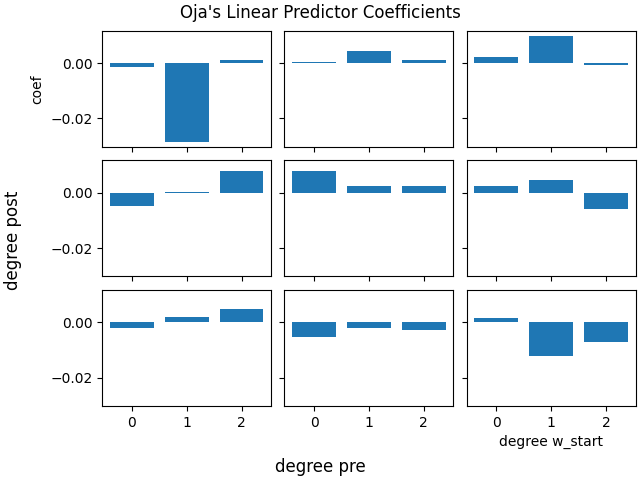
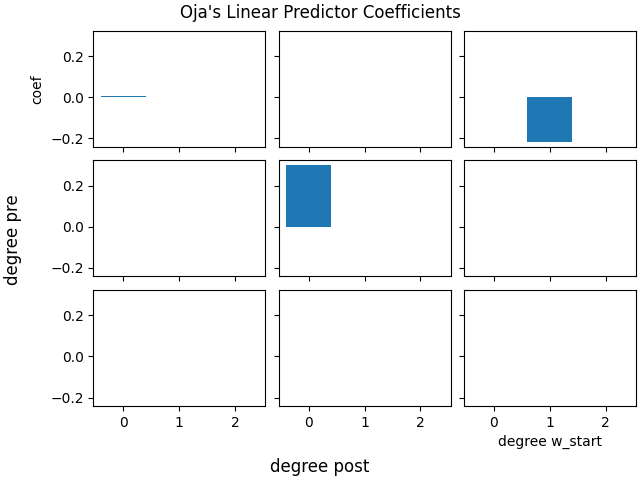
results for 3/11 meeting

diff --git a/oja/oja_manualfeatures.py b/oja/oja_manualfeatures.py
@@ -14,11 +14,14 @@ eps = 1e-7
 
 M = torch.normal(torch.zeros((N, N)), torch.ones((N, N)))
 Q, _ = torch.linalg.qr(M)
-D = torch.diag(torch.exp(-torch.arange(N)))
+Q = Q.to(gpu)
+D = torch.diag(torch.exp(-torch.arange(N))).to(gpu)
 Sigma = Q @ D @ Q.t()
-r_dist = torch.distributions.multivariate_normal.MultivariateNormal(torch.zeros(N), Sigma)
+r_dist = torch.distributions.multivariate_normal.MultivariateNormal(torch.zeros(N, device=gpu), Sigma)
 
 W = torch.normal(torch.zeros(N), torch.ones(N))
+W = W.to(gpu)
+#W.requires_grad_(True)
 
 lr = 1e-3
 n_train = 2000
@@ -31,11 +34,11 @@ alphas = alpha_start*torch.exp(torch.arange(n_train) * (np.log(alpha_end / alpha
 degree = 2
 
 def load_features(start, end):
-    pre = torch.load("r_pre_gd.pt").detach().cpu()
-    pre_start = pre[start, :]
-    post = torch.load("r_post_gd.pt").detach().cpu()
+    post = torch.load("r_post.pt").detach().cpu()
     post_start = post[start, :]
-    W = torch.load("weights_gd.pt").detach().cpu()
+    pre = torch.load("r_pre.pt").detach().cpu()
+    pre_start = pre[start, :]
+    W = torch.load("weights.pt").detach().cpu()
     W0, Wf = W[start, :], W[end, :]
     return pre_start, post_start, W0, Wf
 
@@ -60,6 +63,10 @@ def prepare_features(r_pre, rpost, W):
 
     return transformed_features
 
+def manual_features(r_pre, rpost, W):
+    features = torch.stack((rpost*r_pre, (rpost ** 2) * W), dim=1)
+    return features
+
 def prepare_labels(W0, Wf):
     # # Last diff should be 0
     # delta_W = torch.empty_like(W)
@@ -72,7 +79,7 @@ def prepare_labels(W0, Wf):
 def load_loss(num_intervals, epoch_bound):
     if epoch_bound == None:
         epoch_bound = (0, n_train)
-    losses = torch.load(f"losses_gd.pt").detach().cpu()
+    losses = torch.load(f"losses.pt").detach().cpu()
     losses_region = losses[epoch_bound[0]: epoch_bound[1]]
     total_reduction = losses_region[-1] - losses_region[0]
     interval = total_reduction / (num_intervals)
@@ -99,9 +106,9 @@ def fit_weights(X, Y):
     #reg = ElasticNet(alpha=alpha, l1_ratio=1.0)
     
     # Already have intercept from power series transform
-    #reg = LinearRegression(fit_intercept=False)
+    reg = LinearRegression(fit_intercept=False)
     #reg = LinearRegression(fit_intercept=True) # now we have intercept
-    reg = Lasso(alpha=5e-2, fit_intercept=False)
+    #reg = Lasso(alpha=5e-2, fit_intercept=False)
     reg.fit(X, Y)
 
     return reg
@@ -112,13 +119,14 @@ def prepare_train_data(alphas, num_intervals=5, epoch_subset=None):
     train_samples = []
     train_labels = []
     manual_int = n_train
-    #b = torch.arange(manual_int)
-    #num_intervals = manual_int-1
+    b = torch.arange(manual_int)
+    num_intervals = manual_int-1
     for i in range(num_intervals):
-        #start, end = b[i], b[i+1]
-        start, end = loss_intervals[i]
+        start, end = b[i], b[i+1]
+        #start, end = loss_intervals[i]
         pre, post, W0, Wf = load_features(start, end)
-        features = prepare_features(pre, post, W0)
+        #features = prepare_features(pre, post, W0)
+        features = manual_features(pre, post, W0)
         features = alphas[start] * features
         labels = prepare_labels(W0, Wf)
         train_samples.append(features)
@@ -132,8 +140,8 @@ def prepare_train_data(alphas, num_intervals=5, epoch_subset=None):
     samples_mu = torch.mean(all_samples, dim=0, keepdim=True)
     samples_std = torch.std(all_samples, dim=0, keepdim=True)
     #print(samples_std.shape)
-    # print(samples_mu)
-    # print(samples_std)
+    #print(samples_mu)
+    #print(samples_std)
     #print(torch.min(samples_mu), torch.max(samples_mu))
     normed_samples = (all_samples - samples_mu) / (samples_std + eps)
 
@@ -145,32 +153,7 @@ def prepare_train_data(alphas, num_intervals=5, epoch_subset=None):
     normed_Y = (all_labels - Y_mu) / (Y_std + eps)
     #normed_Y = all_labels
 
-    return loss_intervals, normed_samples.detach().cpu().numpy(), (normed_Y.detach().cpu().numpy(), Y_mu, Y_std)
-
-
-def accum_rule(Y_mu, Y_std, num_steps=100):
-    # Batches to draw from normal dist to (noisily) estimate PC1
-    B = 128
-    c = torch.cov(r_dist.sample((B,)).t())
-    _, eigvecs = torch.linalg.eigh(c)
-    # eigvals sorted in ascending order so take last one
-    pc1 = eigvecs[:, -1]
-    norm_pc1 = pc1 / torch.linalg.vector_norm(pc1)
-    W = torch.normal(torch.zeros(N), torch.ones(N))
-
-    losses = torch.empty((num_steps,))
-    for i in range(num_steps):
-        r_pre = r_dist.sample()
-        r_post = W.t() @ r_pre
-        X = prepare_features(r_pre, r_post, W)
-        delta_W = torch.from_numpy(reg.predict(X.detach().cpu().numpy())) * Y_std + Y_mu
-        W += delta_W
-        loss = 1-torch.abs(W.t() @ norm_pc1 / torch.linalg.vector_norm(W))
-        print(f"Iter {i}: {loss.item()}")
-        losses[i] = loss
-
-    return losses
-
+    return loss_intervals, normed_samples.detach().cpu().numpy(), normed_Y.detach().cpu().numpy()
 
 def compare_coefs(degree, numvars, coef):
     n = degree + 1
@@ -185,24 +168,18 @@ def compare_coefs(degree, numvars, coef):
             if (i, j) == (n-1, n-1):
                 ax[i, j].set_xlabel("degree w_start")
 
-    fig.supxlabel("degree post")
-    fig.supylabel("degree pre")
+    fig.supxlabel("degree pre")
+    fig.supylabel("degree post")
 
     fig.suptitle("Oja's Linear Predictor Coefficients")    
     plt.show()
 
 
-loss_intervals, features, label_data = prepare_train_data(alphas, num_intervals=50, epoch_subset=None)
-labels, mu, std = label_data
+loss_intervals, features, labels = prepare_train_data(alphas, num_intervals=50, epoch_subset=None)
 #print(f"Loss intervals: {loss_intervals}")
 reg = fit_weights(features, labels)
-print(f"Coefs: {reg.coef_}")
+coef0, coef1 = reg.coef_[0], reg.coef_[1]
+print(f"Coefs: \tpost*pre: {coef0:.2f}, post^2*W: {coef1:.2f}")
 print(f"R^2: {reg.score(features, labels)}")
-compare_coefs(degree=degree, numvars=3, coef=reg.coef_)
+#compare_coefs(degree=degree, numvars=3, coef=reg.coef_)
 plt.savefig("coefs.png")
-plt.close()
-
-losses = accum_rule(mu, std, num_steps=n_train)
-plt.plot(losses)
-plt.title("Loss: Learning Rule Accumulation")
-plt.savefig("accum_rule.png")

diff --git a/oja/oja_groundtruth.py b/oja/oja_groundtruth.py
@@ -14,16 +14,15 @@ r_dist = torch.distributions.multivariate_normal.MultivariateNormal(torch.zeros(
 
 W = torch.normal(torch.zeros(N), torch.ones(N))
 W = W.to(gpu)
-#W.requires_grad_(True)
+W.requires_grad_(True)
 
 lr = 1e-3
-n_train = 1000
-alpha_start = 1e-1
+n_train = 2000
+alpha_start = 1e-2
 alpha_end = 1e-3
 # Exponential decay lr starting at alpha_start and ending at alpha_end
-#alphas = alpha_start*torch.exp(torch.arange(n_train) * (np.log(alpha_end / alpha_start) / (n_train-1)))
-alphas = ((alpha_end - alpha_start) / n_train) * torch.arange(n_train) + alpha_start
-mse = torch.nn.MSELoss()
+alphas = alpha_start*torch.exp(torch.arange(n_train) * (np.log(alpha_end / alpha_start) / (n_train-1)))
+#alphas = ((alpha_end - alpha_start) / n_train) * torch.arange(n_train) + alpha_start
 optim = torch.optim.Adam([W], lr=lr)
 # Batches to draw from normal dist to (noisily) estimate PC1
 B = 128
@@ -38,25 +37,24 @@ pre = torch.empty((n_train, N))
 post = torch.empty((n_train, 1))
 for i in range(n_train):
     r_pre = r_dist.sample()
-    r_post = W @ r_pre.unsqueeze(1)
+    r_post = W.t() @ r_pre
     
-    delta_W = alphas[i] * r_post*(r_pre - r_post*W)
-    W += delta_W
     loss = 1-torch.abs(W.t() @ norm_pc1 / torch.linalg.vector_norm(W))
-    #loss = mse(W, norm_pc1)
     print(f"Iter {i}: {loss.item()}")
     losses[i] = loss.item()
     W_val[i] = W
     pre[i] = r_pre
     post[i] = r_post
-    #optim.zero_grad()
-    #loss.backward()
-    #optim.step()
+    #delta_W = alphas[i] * r_post*(r_pre - r_post*W)
+    #W += delta_W
+    optim.zero_grad()
+    loss.backward()
+    optim.step()
 
 
 plt.plot(losses)
-plt.savefig("losses.png")
-torch.save(losses, "losses.pt")
-torch.save(pre, "r_pre.pt")
-torch.save(post, "r_post.pt")
-torch.save(W_val, "weights.pt")
+plt.savefig("losses_gd.png")
+torch.save(losses, "losses_gd.pt")
+torch.save(pre, "r_pre_gd.pt")
+torch.save(post, "r_post_gd.pt")
+torch.save(W_val, "weights_gd.pt")
